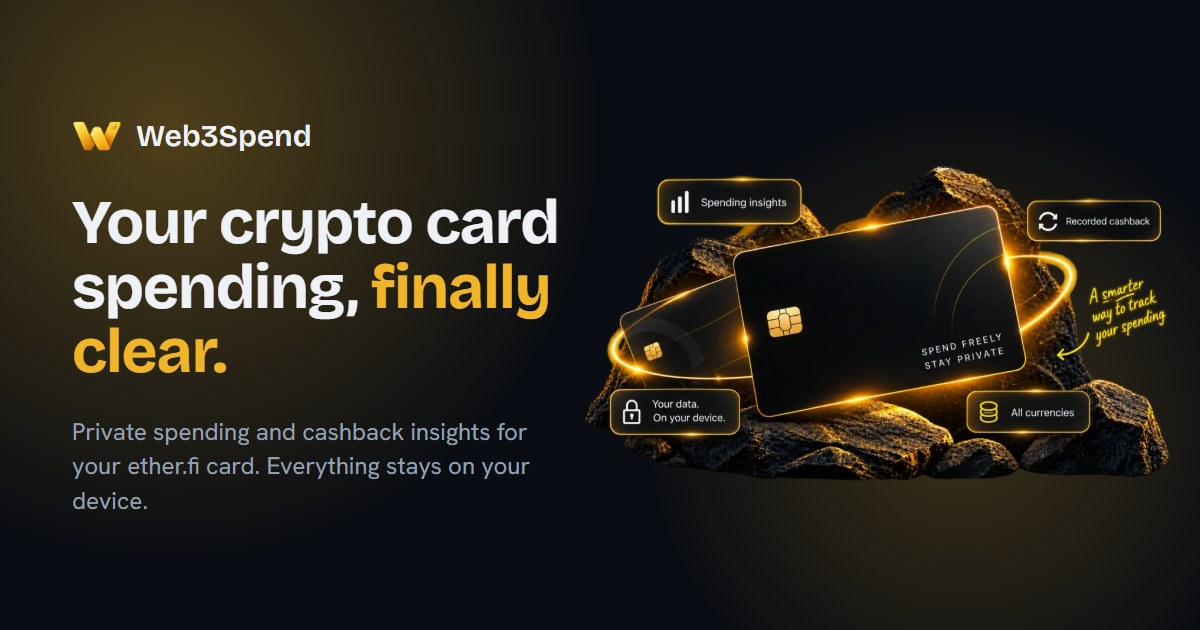
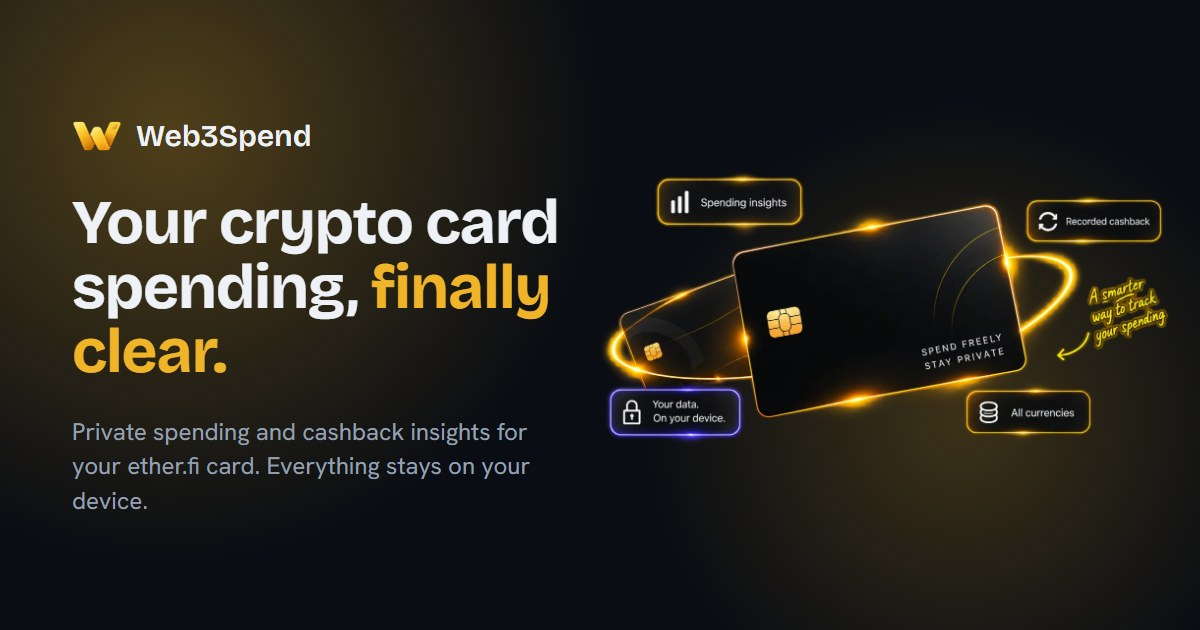
Replace the hero artwork with a calmer version
The hero card illustration no longer sits on rocks, which made the top
of the page feel crowded, and its "Your data. On your device." callout
is purple to match the page's second accent. It's converted from the
supplied PNG (1672x941, 1.2 MB) to a 1200x675 WebP with transparency
at 118 KB, a little smaller than the old 1000px image, and sharp at the
roughly 600px it's shown at on high-resolution screens. The link preview
image, which uses the same artwork, is regenerated.

Changed region(s): [[0.4933, 0.2413, 0.9867, 0.7841], [0.6475, 0.4825, 0.6783, 0.5429]]

diff --git a/src/components/home/HeroCard.tsx b/src/components/home/HeroCard.tsx
@@ -16,8 +16,8 @@ function HeroCard() {
       <img
         src={heroCardImage}
         alt="A Web3Spend card, surrounded by callouts for spending insights, recorded cashback, on-device privacy, and support for all currencies"
-        width={1000}
-        height={563}
+        width={1200}
+        height={675}
         className="relative z-10 w-full max-w-full"
       />
     </div>
